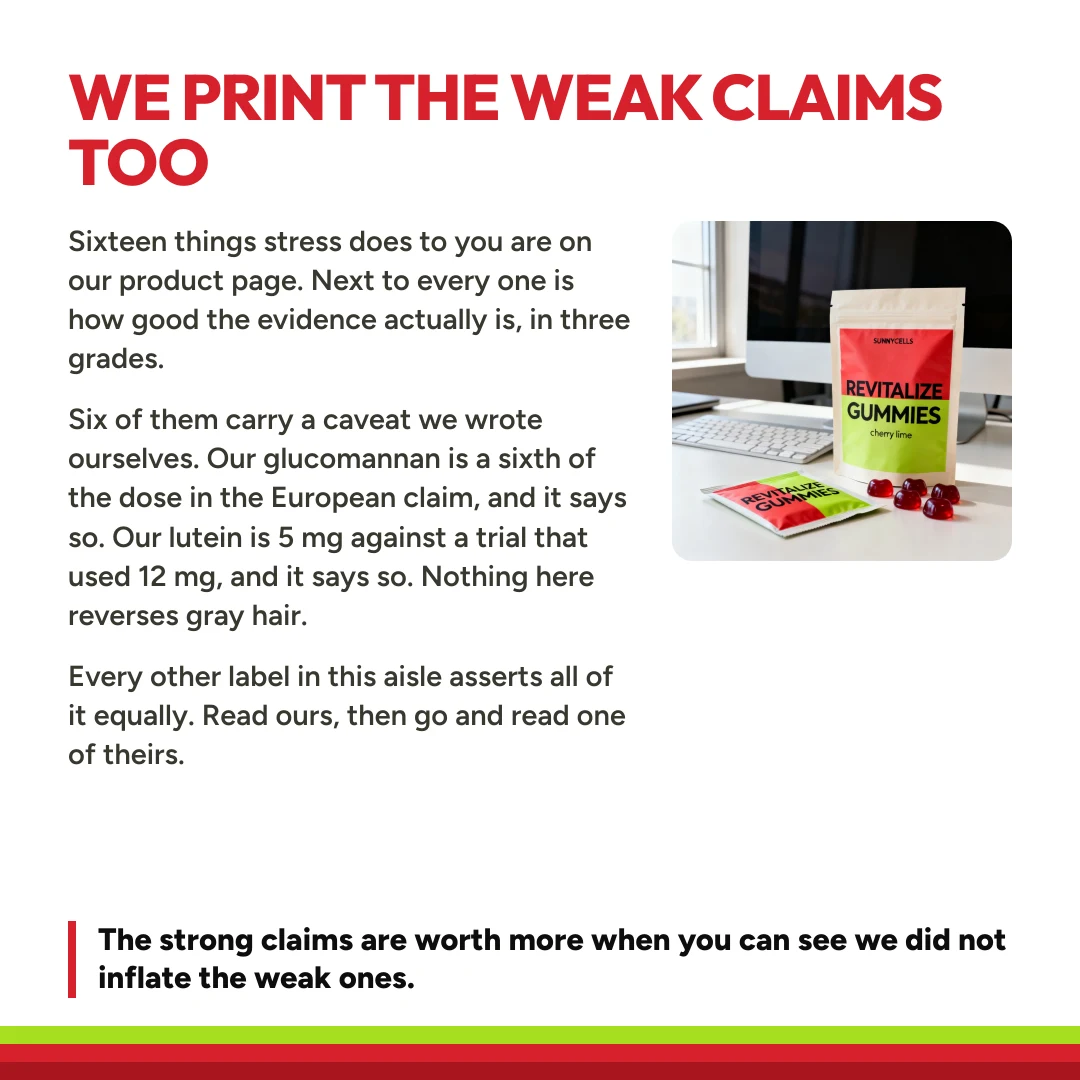
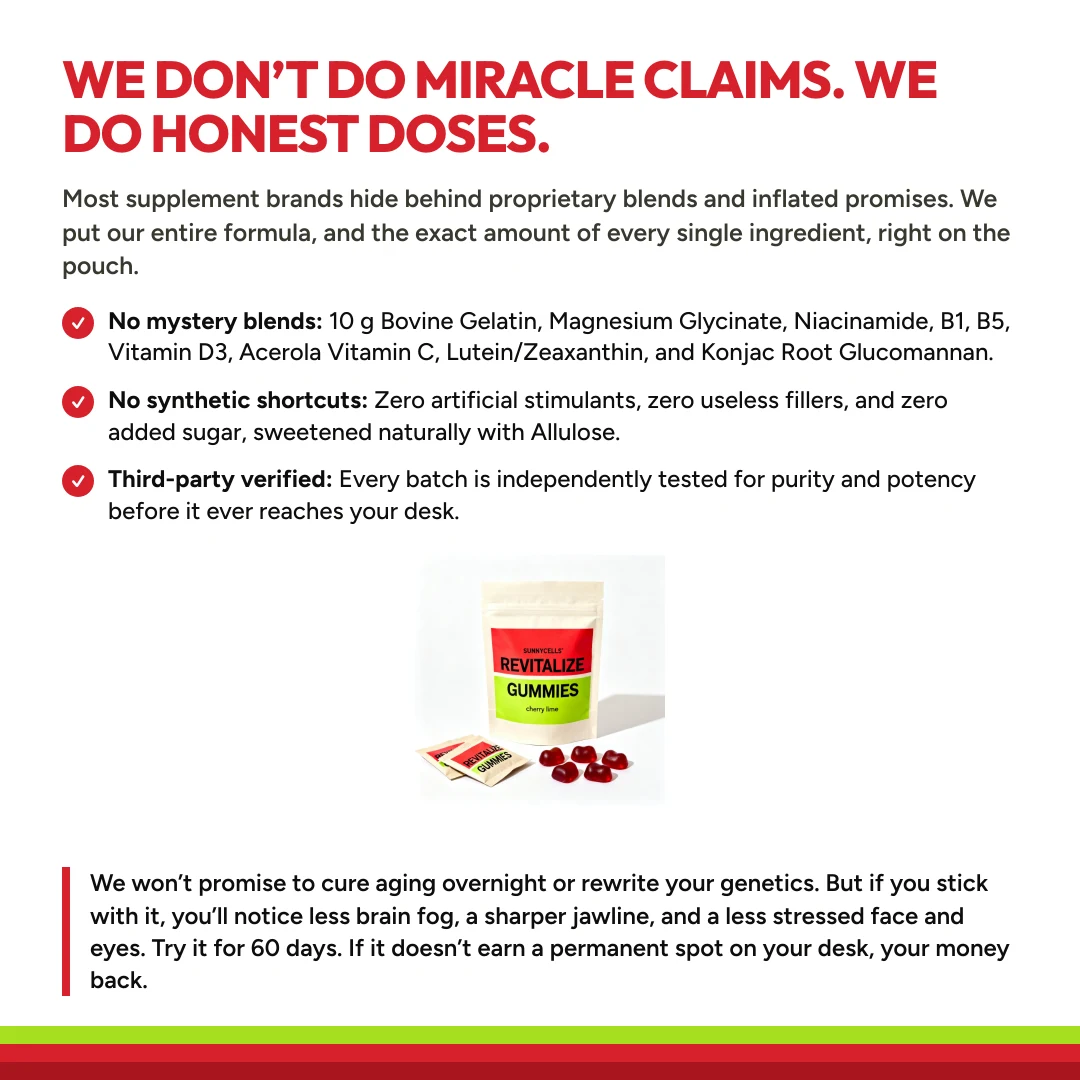
Honest doses slide, blurred photo frames, tighter CTA
Slide 7 rebuilt on the supplied copy: no miracle claims, the three
"no mystery blends / no synthetic shortcuts / third-party verified" points
with the full ingredient list spelled out, and the 60 day close. The pack
fills the band that was empty in the middle.

Reason photographs now sit in a frame carrying a blurred, cover-fitted copy
of the same image behind them, so a landscape or portrait source fills the
3:4 box instead of leaving a flat band top and bottom. The before and after
belly illustration is the case that needed it.

Condenses the run from the servings line to the terms line under the
button. The card was using one flat gap between every child, so the button
had as much air around it as two paragraphs.

Changed region(s): [[0.0611, 0.0306, 0.9472, 0.7333], [0.0306, 0.7944, 0.9472, 0.9167]]

diff --git a/components/advertorial/revitalize-ten.module.css b/components/advertorial/revitalize-ten.module.css
@@ -63,12 +63,22 @@
 
 /* ---------- the ten ---------- */
 .reason { display: grid; gap: 1.25rem; align-items: center; padding-block: 2rem; }
-.reasonShot {
-  width: 100%; display: block; aspect-ratio: 3 / 4; object-fit: cover;
+/* The frame carries a blurred copy of the same photograph, so a source that does not
+   match 3:4 fills the box instead of sitting in a flat band. */
+.reasonFrame {
+  position: relative; width: 100%; aspect-ratio: 3 / 4; overflow: hidden;
   border-radius: var(--radius-lg); background: var(--ivory);
+  background-size: cover; background-position: center;
 }
+.reasonFrame::before {
+  content: ""; position: absolute; inset: 0;
+  background: inherit; background-size: cover; background-position: center;
+  filter: blur(26px) saturate(1.15) brightness(0.97);
+  transform: scale(1.25);
+}
+.reasonShot { position: relative; width: 100%; height: 100%; object-fit: cover; display: block; }
 .reasonLow { object-position: 50% 62%; }
-.reasonFit { object-fit: contain; background: var(--ivory); border: 2px solid var(--ink-10); }
+.reasonFit { object-fit: contain; }
 .reasonBody { display: grid; gap: 0.75rem; }
 .h2 {
   font-family: var(--font-display); font-weight: var(--weight-display);
@@ -122,7 +132,7 @@
 .gThumb img { width: 100%; height: 100%; object-fit: contain; display: block; }
 .gThumbOn { border-color: var(--reds); }
 @media (min-width: 640px) { .gThumbs { grid-template-columns: repeat(8, 1fr); gap: 0.375rem; } }
-.offerCard { display: grid; gap: 1rem; }
+.offerCard { display: grid; gap: 0.875rem; }
 .offerTitle {
   margin: 0; color: var(--reds); font-family: var(--font-display);
   font-weight: var(--weight-display); text-transform: uppercase;
@@ -141,7 +151,7 @@
    three things people check before pressing it. */
 .autoApplied {
   display: flex; align-items: center; justify-content: center; gap: 0.5rem;
-  margin: 0.875rem 0 0; text-align: center;
+  margin: -0.125rem 0 0; text-align: center;
   font-size: var(--size-body); font-weight: 800; color: var(--status-success);
 }
 .autoTick {
@@ -186,10 +196,10 @@
 .planPrice { font-weight: var(--weight-bold); font-size: var(--size-body-lg); }
 .planWas { color: var(--ink-60); font-size: var(--size-meta); text-decoration: line-through; }
 
-.servings { margin: 0; text-align: center; font-size: var(--size-body); font-weight: var(--weight-bold); }
+.servings { margin: 0.25rem 0 -0.25rem; text-align: center; font-size: var(--size-body); font-weight: var(--weight-bold); }
 .cadence { margin: -0.5rem 0 0; text-align: center; color: var(--ink-60); font-size: var(--size-meta); }
 .offerFlagRow { display: flex; flex-wrap: wrap; align-items: center; justify-content: center; gap: 0.75rem; }
-.terms { margin: 0.5rem 0 0; text-align: center; color: var(--ink-60); font-size: var(--size-meta); font-weight: 600; }
+.terms { margin: -0.375rem 0 0.25rem; text-align: center; color: var(--ink-60); font-size: var(--size-meta); font-weight: 600; }
 
 .benefits { border: 2px solid var(--reds); border-radius: var(--radius-md); background: var(--ivory); padding: 1.125rem 1.25rem; }
 .benefitsTitle { margin: 0 0 0.75rem; color: var(--reds); font-size: var(--size-body-lg); font-weight: var(--weight-bold); }

diff --git a/lib/products/revitalize-carousel.ts b/lib/products/revitalize-carousel.ts
@@ -127,14 +127,16 @@ export const SLIDES = {
   /* 7. Trust. The reference uses a founder story. We use the thing that is true. */
   honesty: {
     file: "07-honesty",
-    title: "We print the weak claims too",
-    photo: "/product/revitalize/monitor.webp",
-    body: [
-      "Sixteen things stress does to you are on our product page. Next to every one is how good the evidence actually is, in three grades.",
-      "Six of them carry a caveat we wrote ourselves. Our glucomannan is a sixth of the dose in the European claim, and it says so. Our lutein is 5 mg against a trial that used 12 mg, and it says so. Nothing here reverses gray hair.",
-      "Every other label in this aisle asserts all of it equally. Read ours, then go and read one of theirs.",
+    title: "We don\u2019t do miracle claims. We do honest doses.",
+    lede:
+      "Most supplement brands hide behind proprietary blends and inflated promises. We put our entire formula, and the exact amount of every single ingredient, right on the pouch.",
+    points: [
+      { lead: "No mystery blends:", rest: " 10 g Bovine Gelatin, Magnesium Glycinate, Niacinamide, B1, B5, Vitamin D3, Acerola Vitamin C, Lutein/Zeaxanthin, and Konjac Root Glucomannan." },
+      { lead: "No synthetic shortcuts:", rest: " Zero artificial stimulants, zero useless fillers, and zero added sugar, sweetened naturally with Allulose." },
+      { lead: "Third-party verified:", rest: " Every batch is independently tested for purity and potency before it ever reaches your desk." },
     ],
-    kicker: "The strong claims are worth more when you can see we did not inflate the weak ones.",
+    kicker:
+      "We won\u2019t promise to cure aging overnight or rewrite your genetics. But if you stick with it, you\u2019ll notice less brain fog, a sharper jawline, and a less stressed face and eyes. Try it for 60 days. If it doesn\u2019t earn a permanent spot on your desk, your money back.",
   },
 
   /* 8. Risk reversal. */

diff --git a/lib/products/revitalize.ts b/lib/products/revitalize.ts
@@ -114,7 +114,7 @@ export const GALLERY = [
   { src: "/product/revitalize/carousel/04-timeline.webp", alt: "What happens when you take Revitalize. Week one: afternoon cravings vanish, the 3 PM energy crash disappears, sleep feels deeper. Month one: face looks less puffy, cortisol belly starts shrinking, skin stays calm under deadline stress. Month three: fine lines and screen strain fade, steady focus is your new baseline, you look and feel rested even on 60-hour weeks" },
   { src: "/product/revitalize/carousel/05-compare.webp", alt: "Revitalize compared with coffee and a multivitamin on all-day energy without jitters or crashes, a satiety-boosting protein matrix, flushing cortisol and shielding against screen strain, killing afternoon pantry cravings, being a daily ritual you look forward to, and fully transparent high-potency ingredients" },
   { src: "/product/revitalize/carousel/06-faq.webp", alt: "Frequently asked questions: what Revitalize is, how it works, whether there is caffeine in it, and how fast you will see results" },
-  { src: "/product/revitalize/carousel/07-honesty.webp", alt: "We print the weak claims too: every claim on the product page carries an evidence grade and six carry a caveat we wrote ourselves" },
+  { src: "/product/revitalize/carousel/07-honesty.webp", alt: "We do not do miracle claims, we do honest doses. The entire formula and the exact amount of every ingredient is on the pouch: no mystery blends, no synthetic shortcuts, third-party verified every batch" },
   { src: "/product/revitalize/carousel/08-guarantee.webp", alt: "60 day money back. Try Revitalize for 60 days, and if the afternoon does not change we refund the whole order" },
 ] as const;
 

diff --git a/components/advertorial/RevitalizeTenPage.tsx b/components/advertorial/RevitalizeTenPage.tsx
@@ -107,8 +107,10 @@ export function RevitalizeTenPage() {
         <section className={styles.wrap} ref={startRef}>
           {REASONS.map((r) => (
             <article key={r.n} className={styles.reason}>
-              <Image src={r.photo} alt={r.alt} width={720} height={960}
-                className={`${styles.reasonShot} ${r.fit === "contain" ? styles.reasonFit : ""}`} />
+              <div className={styles.reasonFrame} style={{ backgroundImage: `url(${r.photo})` }}>
+                <Image src={r.photo} alt={r.alt} width={720} height={960}
+                  className={`${styles.reasonShot} ${r.fit === "contain" ? styles.reasonFit : ""}`} />
+              </div>
               <div className={styles.reasonBody}>
                 <h2 className={styles.h2}>{r.n}. {r.title}</h2>
                 <p className={styles.body}>{r.body}</p>
